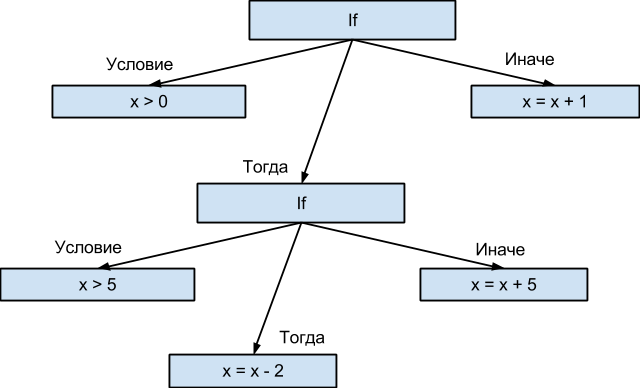
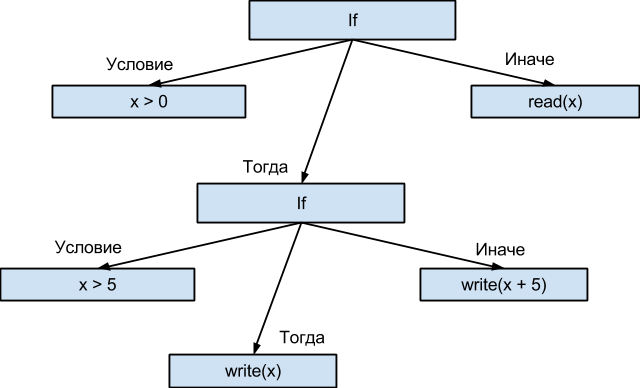
work

Changed region(s): [[0.7188, 0.7113, 0.8438, 0.7732], [0.3438, 0.9278, 0.4375, 0.9897], [0.8125, 0.2474, 0.9375, 0.2784]]

diff --git a/work/realization.tex b/work/realization.tex
@@ -1,21 +1,23 @@
-\section{Реализация шаблонного подхода}
+\section{Реализация принтера, основанного на шаблонах}
 
-Одной из целей данной работы было доказательство того, что принтер можно задавать с помощью шаблонов.
-Самый простой способ доказать это --- предъявить такой принтер. Было принято решение реализовать принтер для модельного языка L, уже описанного в этом тексте.
+Основной целью данной работы была разработка прототипа принтера, который бы использовал для печати шаблоны.
+
+\subsection{Описание общего подхода}
 
 Работа принтера разбивается на два этапа: подготовка шаблонов и непосредственно печать синтаксического дерева.
 
-На подготовительном этапе из файла с шаблонами языковых конструкций языка L строится набор образцов. \textit{Образцом} назовем пару из текста шаблона и обобщенного синтаксического дерева шаблона. Дерево шаблона --- обобщенное, так как на месте некоторых узлов стоят специальные метки, которые хранят информацию об ограничениях на текстовое представление соответствующих узлов.
+На подготовительном этапе из файла с шаблонами языковых конструкций строится набор образцов. \textit{Образцом} назовем пару из текста шаблона и обобщенного синтаксического дерева шаблона. Дерево шаблона --- обобщенное, так как на месте некоторых узлов стоят специальные метки, которые хранят информацию об ограничениях на текстовое представление соответствующих узлов.
 
-Во время основной фазы работы принтера дерево, которое необходимо непачатать, будет сравниваться с деревьями из образцов. В случае согласованности образца и дерева для печати будет использоваться текст образца, в который на места меток будут вставлены представления соответствующих поддеревьев.
+Во время основной фазы работы принтера дерево, которое необходимо непачатать, сравнивается с деревьями из образцов. В случае согласованности образца и дерева для печати используется текст образца, в который на места меток вставляются представления соответствующих поддеревьев.
+
+% Благодаря шаблонам, необходимый результат получается просто и наглядно.
 
 \subsection{Шаблон}
 
 Внутри шаблона используется специальный язык разметки. Символы “\lstinline{@-}” на позиции поддерева синтаксической конструкции означают, что для применения данного шаблона поддерево должно быть напечатано в одну строку. Семантика символов “\lstinline{@* N @*}” совпадает с семантикой “\lstinline{@-}” с точностью до того, что напечатанное поддерево должно занимать строку длины не более N. Символы “\lstinline{@| @|}” означают, что соответствующее поддерево может быть напечатано и на нескольких строках. Для выделения отдельных шаблонов используются строки “\lstinline{t_start}”, “\lstinline{t_end}”.
 
-Рассмотрим пример шаблонов для конструкции “\lstinline{write}” (см. рис. \ref{fig:writeTmplt1} и \ref{fig:writeTmplt2}).
+Рассмотрим пример шаблонов для конструкции “\lstinline{write}” языка L (см. рис. \ref{fig:writeTmplt1} и \ref{fig:writeTmplt2}).
 Эти шаблоны задают именно такое представление \lstinline{write}”, которого мы добивались в обзоре принтер-библиотек.
-Благодаря шаблонам, необходимый результат получается просто и наглядно.
 
 \begin{figure}[h!]
 	\begin{subfigure}[h]{0.45\textwidth}
@@ -31,55 +33,76 @@
 	\caption{Шаблоны для конструкции “\lstinline{write}”}
 \end{figure}
 
-Изначально в языке разметки не было конструкции “\lstinline{@* N @*}”. Она кажется несколько неестественной. Действительно, при описаниях принтеров из введения и обзора ни разу не упоминалось, что нужно ограничение, которое не просто проверяет раскладку поддерева на однострочность.
-Появление данной конструкции было вызвано тем, что многие поддеревья раскладывались в одну строчку. Получались слишком длинные строки. Рассмотрим случай вложенных операторов “\lstinline{if-then-else}”. Зададим шаблоны для печати оператора “\lstinline{if-then-else}” только с помощью “\lstinline{@-}” и “\lstinline{@| @|}” (см. рис. \ref{fig:flatBadIfTmplt} и \ref{fig:multBadIfTmplt}).
+% Изначально в языке разметки не было конструкции “\lstinline{@* N @*}”. Она кажется несколько неестественной. Действительно, при описаниях принтеров из введения и обзора ни разу не упоминалось, что нужно ограничение, которое не просто проверяет раскладку поддерева на однострочность.
+% Появление данной конструкции было вызвано тем, что многие поддеревья раскладывались в одну строчку. Получались слишком длинные строки.
+% Рассмотрим случай вложенных операторов “\lstinline{if-then-else}”. Зададим шаблоны для печати оператора “\lstinline{if-then-else}” только с помощью “\lstinline{@-}” и “\lstinline{@| @|}” (см. рис. \ref{fig:flatBadIfTmplt} и \ref{fig:multBadIfTmplt}).
+
+% Тогда дерево с вложенными “\lstinline{if-then-else}” будет представлено однострочно (см. рис. \ref{fig:nestedIf} и \ref{fig:nestedIfFlatCode}), чего хотелось бы избежать.
+
+% \begin{figure}[h!]
+% 	\centering
+% 	\lstinputlisting{codes/nestedIf.l}
+% 	\caption{Представление с помощью шаблона с рис. \ref{fig:flatBadIfTmplt}}
+% 	\label{fig:nestedIfFlatCode}
+% \end{figure}
+
+% Но если воспользоваться “\lstinline{@* N @*}”, то можно переписать однострочный шаблон так, что подобная проблема не возникала (см. рис. \ref{fig:flatGoodIfTmplt} и \ref{fig:nestedIfCode}). В подобных ситуациях однострочный вариант просто не будет выбираться.
+
+
+% \begin{figure}[h!]
+% 	\centering
+% 	\lstinputlisting{codes/goodNestedIf.l}
+% 	\caption{Представление с помощью новых шаблонов}
+% 	\label{fig:nestedIfCode}
+% \end{figure}
+
+Рассмотрим шаблоны для конструкции “\lstinline{if-then-else}” (см. рис. \ref{fig:flatGoodIfTmplt} и \ref{fig:multBadIfTmplt}).
+С помощью них можно напечатать дерево, изображенное на рисунке~\ref{fig:nestedIf} (см. рис. \ref{fig:nestedIfCode}).
 
 \begin{figure}[h!]
 	\begin{subfigure}[h]{0.45\textwidth}
-		\lstinputlisting{codes/flatBadIfTmplt.l}
+		\lstinputlisting{codes/flatGoodIfTmplt.l}
 		\caption{Однострочный вариант}
-		\label{fig:flatBadIfTmplt}
+		\label{fig:flatGoodIfTmplt}
 	\end{subfigure}
+	
 	\begin{subfigure}[h]{0.45\textwidth}
 		\lstinputlisting{codes/multBadIfTmplt.l}
 		\caption{Многострочный вариант}
 		\label{fig:multBadIfTmplt}
 	\end{subfigure}
 	\caption{Шаблоны для конструкции “\lstinline{if-then-else}”}
+	\label{fig:ifTmplt}
 \end{figure}
-
-Тогда дерево с вложенными “\lstinline{if-then-else}” будет представлено однострочно (см. рис. \ref{fig:nestedIf} и \ref{fig:nestedIfFlatCode}), чего хотелось бы избежать.
 
 \begin{figure}[h!]
 	\centering
 	\includegraphics[width=0.6\textwidth]{nestedIf}
-	\caption{Пример дерева вложенных “\lstinline{if-then-else}”}
+	\caption{Пример дерева “\lstinline{if-then-else}”}
 	\label{fig:nestedIf}
 \end{figure}
 
 \begin{figure}[h!]
 	\centering
 	\lstinputlisting{codes/nestedIf.l}
-	\caption{Представление с помощью шаблона с рис. \ref{fig:flatBadIfTmplt}}
-	\label{fig:nestedIfFlatCode}
-\end{figure}
-
-Но если воспользоваться “\lstinline{@* N @*}”, то можно переписать однострочный шаблон так, что подобная проблема не возникала (см. рис. \ref{fig:flatGoodIfTmplt} и \ref{fig:nestedIfCode}). В подобных ситуациях однострочный вариант просто не будет выбираться.
-
-\begin{figure}[h!]
-	\lstinputlisting{codes/flatGoodIfTmplt.l}
-	\caption{Новый однострочный вариант шаблона для конструкции “\lstinline{if-then-else}”}
-	\label{fig:flatGoodIfTmplt}	
-\end{figure}
-
-\begin{figure}[h!]
-	\centering
-	\lstinputlisting{codes/goodNestedIf.l}
-	\caption{Представление с помощью новых шаблонов}
+	\caption{Представление с помощью шаблонов с рис. \ref{fig:ifTmplt}}
 	\label{fig:nestedIfCode}
 \end{figure}
 
-Также одним из неочевидных свойств шаблонов является то, что с их помощью можно выражать не только базовые конструкции языка. Никто не мешает завести отдельный шаблон, описывающий ситуацию, к примеру, тех же вложенных “\lstinline{if-then-else}”. Но 
+Одним из неочевидных свойств шаблонов является то, что с их помощью можно выражать не только базовые конструкции языка.
+Например, можно завести отдельный шаблон для случая, когда обе ветки конструкции “\lstinline{if-then-else}” представляют собой операторы “\lstinline{write}” (см. рис. \ref{fig:writeNestedInIf}). Если добавить такой шаблон, то пример дерева с рисунка~\ref{fig:nestedIf} получит новое представление (см. рис. \ref{fig:nestedIfNew}).
+
+\begin{figure}[h!]
+	\lstinputlisting{codes/writeNestedInIf.t}
+	\caption{Пример задания шаблона для сложной конструкции}
+	\label{fig:writeNestedInIf}
+\end{figure}
+
+\begin{figure}[h!]
+	\lstinputlisting{codes/nestedIfNew.l}
+	\caption{Представление дерева с рис. \ref{fig:nestedIf} с импользованием шаблона с рис. \ref{fig:writeNestedInIf}}
+	\label{fig:nestedIfNew}
+\end{figure}
 
 \subsection{Построение образцов}
 
